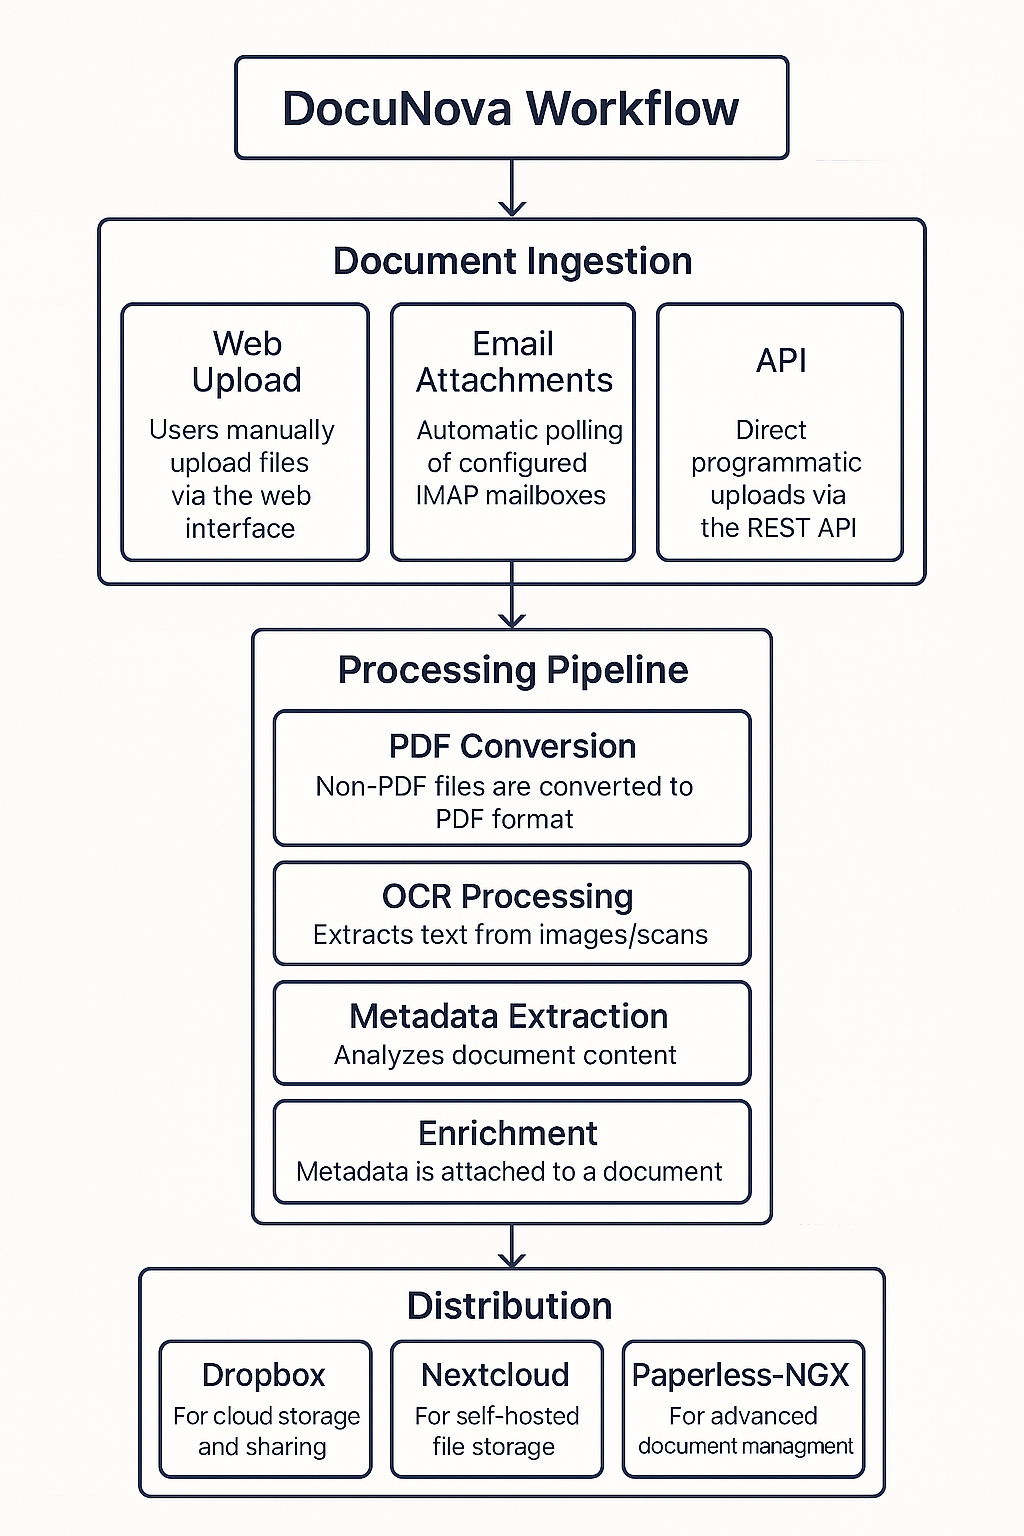
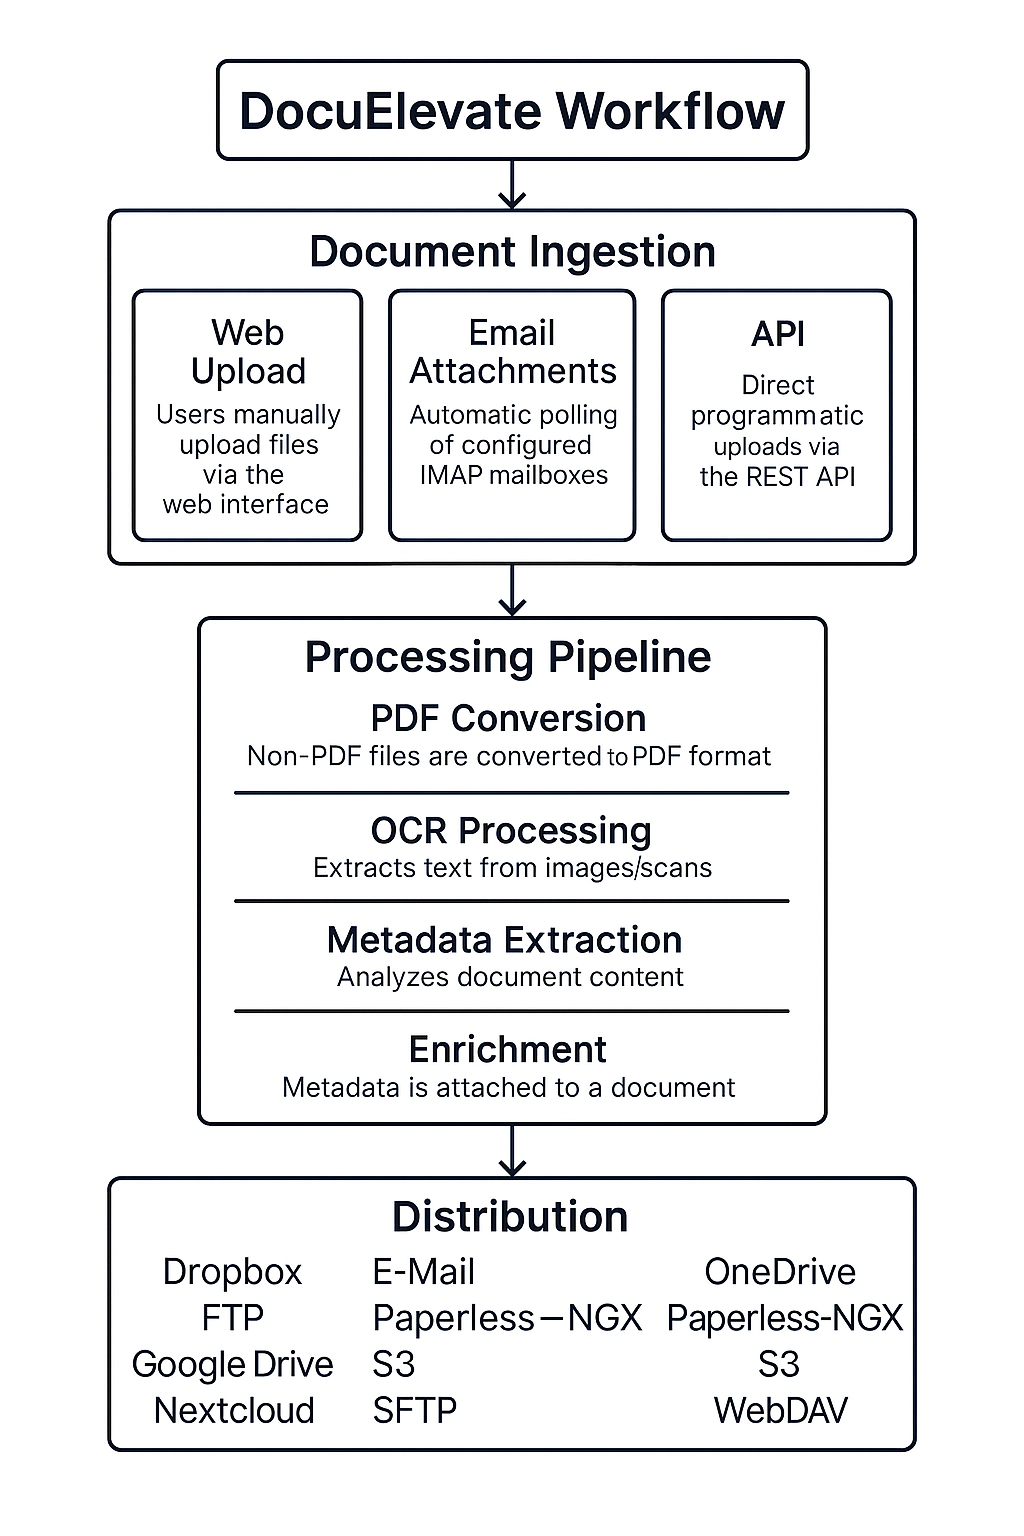
feat: rename project from DocuNova to DocuElevate, update related documentation and templates

Changed region(s): [[0.0938, 0.0312, 0.9062, 0.9688]]

diff --git a/frontend/templates/about.html b/frontend/templates/about.html
@@ -1,12 +1,12 @@
 {% extends "base.html" %}
-{% block title %}About DocuNova{% endblock %}
+{% block title %}About DocuElevate{% endblock %}
 
 {% block content %}
 <div class="container mx-auto px-4 py-8">
-  <h1 class="text-4xl font-bold mb-4">About DocuNova</h1>
+  <h1 class="text-4xl font-bold mb-4">About DocuElevate</h1>
   <p class="text-gray-700 mb-6 leading-relaxed">
-    Welcome to <strong>DocuNova</strong> – your modern, intelligent solution for document processing!
-    We’ve built DocuNova to completely transform the way you handle your documents – from upload
+    Welcome to <strong>DocuElevate</strong> – your modern, intelligent solution for document processing!
+    We've built DocuElevate to completely transform the way you handle your documents – from upload
     to extraction, from processing to storage. 
   </p>
 
@@ -14,7 +14,7 @@
   <section class="bg-white shadow rounded p-6 mb-8">
     <h2 class="text-2xl font-semibold mb-2">Our Story</h2>
     <p class="text-gray-600 mb-4">
-      DocuNova was created with one goal in mind: to simplify and streamline document management 
+      DocuElevate was created with one goal in mind: to simplify and streamline document management 
       for everyone, whether you’re a small startup or a large enterprise.
     </p>
     <p class="text-gray-600">
@@ -42,7 +42,7 @@
   <section class="bg-white shadow rounded p-6 mb-8">
     <h2 class="text-2xl font-semibold mb-2">Meet the Creator</h2>
     <p class="text-gray-600">
-      DocuNova is passionately developed by
+      DocuElevate is passionately developed by
       <a href="https://www.christianlouis.de" target="_blank" class="text-blue-600 hover:underline">Christian Krakau-Louis</a>.
     </p>
   </section>
@@ -51,12 +51,12 @@
   <section class="bg-white shadow rounded p-6">
     <h2 class="text-2xl font-semibold mb-2">Get Involved</h2>
     <p class="text-gray-600 mb-4">
-      Want to dive into the code, contribute ideas, or simply check out the magic behind DocuNova?
+      Want to dive into the code, contribute ideas, or simply check out the magic behind DocuElevate?
       Visit our GitHub repository!
     </p>
     <a href="https://github.com/christianlouis/document-processor" target="_blank" class="flex items-center space-x-2 text-blue-600 hover:text-blue-800">
       <img src="https://github.githubassets.com/images/modules/logos_page/GitHub-Mark.png" alt="GitHub Logo" class="h-6 w-6" />
-      <span>View DocuNova on GitHub</span>
+      <span>View DocuElevate on GitHub</span>
     </a>
   </section>
 </div>

diff --git a/app/templates/email/default.html b/app/templates/email/default.html
@@ -3,7 +3,7 @@
 <head>
     <meta charset="UTF-8">
     <meta name="viewport" content="width=device-width, initial-scale=1.0">
-    <title>Document from DocuNova</title>
+    <title>Document from DocuElevate</title>
     <style>
         body {
             font-family: 'Segoe UI', Tahoma, Geneva, Verdana, sans-serif;
@@ -95,7 +95,7 @@
 <body>
     <div class="header">
         {% if has_logo %}
-        <img src="cid:logo" alt="DocuNova Logo" class="logo">
+        <img src="cid:logo" alt="DocuElevate Logo" class="logo">
         {% endif %}
         <h1>Document Delivery</h1>
     </div>
@@ -105,7 +105,7 @@
             {% if custom_message %}
                 {{ custom_message }}
             {% else %}
-                A document has been shared with you from DocuNova.
+                A document has been shared with you from DocuElevate.
             {% endif %}
         </p>
         
@@ -148,14 +148,14 @@
         
         {% if app_url %}
         <p>
-            <a href="{{ app_url }}" class="button">Visit DocuNova</a>
+            <a href="{{ app_url }}" class="button">Visit DocuElevate</a>
         </p>
         {% endif %}
     </div>
     
     <div class="footer">
-        <p>This is an automated message from DocuNova Document Processing System.</p>
-        <p>© {{ now().year }} DocuNova</p>
+        <p>This is an automated message from DocuElevate Document Processing System.</p>
+        <p>© {{ now().year }} DocuElevate</p>
     </div>
 </body>
 </html>

diff --git a/frontend/templates/base.html b/frontend/templates/base.html
@@ -2,7 +2,7 @@
 <html lang="en">
   <head>
     <meta charset="UTF-8" />
-    <title>{% block title %}DocuNova{% endblock %}</title>
+    <title>{% block title %}DocuElevate{% endblock %}</title>
     <meta name="viewport" content="width=device-width, initial-scale=1.0" />
     <!-- Tailwind CSS or other global CSS references -->
     <script src="https://cdn.jsdelivr.net/npm/@tailwindcss/browser@4"></script>
@@ -35,7 +35,7 @@
             ></span>
             <!-- Text -->
             <span class="text-xl font-bold text-blue-500 hover:text-blue-700">
-              DocuNova
+              DocuElevate
             </span>
           </a>
         </div>
@@ -104,7 +104,7 @@
     <!-- Footer -->
     <footer class="bg-white shadow">
       <div class="max-w-7xl mx-auto px-4 py-4 text-center text-gray-600">
-        DocuNova 2025 - Licensed under <a href="/license" class="text-blue-500 hover:underline">Apache License 2.0</a> - 
+        DocuElevate 2025 - Licensed under <a href="/license" class="text-blue-500 hover:underline">Apache License 2.0</a> - 
         <span class="text-xs">Version {{ app_version|default(version, true) }}</span>
       </div>
     </footer>

diff --git a/frontend/templates/onedrive.html b/frontend/templates/onedrive.html
@@ -6,7 +6,7 @@
   <div class="mb-8">
     <h1 class="text-3xl font-bold mb-2">OneDrive Integration Setup</h1>
     <p class="text-gray-600 mb-4">
-      Configure the Microsoft OneDrive integration for DocuNova using our setup wizard.
+      Configure the Microsoft OneDrive integration for DocuElevate using our setup wizard.
     </p>
     
     <div class="bg-blue-100 border-l-4 border-blue-500 text-blue-700 p-4 my-4" role="alert">
@@ -48,7 +48,7 @@
         <li>Go to the <a href="https://portal.azure.com/" target="_blank" class="text-blue-600 hover:underline">Azure Portal</a></li>
         <li>Navigate to "Azure Active Directory" > "App registrations"</li>
         <li>Click "New registration"</li>
-        <li>Enter a name for your application (e.g., "DocuNova")</li>
+        <li>Enter a name for your application (e.g., "DocuElevate")</li>
         <li>For "Supported account types", select:
           <div class="bg-gray-50 p-2 my-2 rounded text-sm">
             "Accounts in any organizational directory and personal Microsoft accounts"

diff --git a/frontend/templates/dropbox.html b/frontend/templates/dropbox.html
@@ -6,7 +6,7 @@
   <div class="mb-8">
     <h1 class="text-3xl font-bold mb-2">Dropbox Integration Setup</h1>
     <p class="text-gray-600 mb-4">
-      Configure the Dropbox integration for DocuNova using our setup wizard.
+      Configure the Dropbox integration for DocuElevate using our setup wizard.
     </p>
     
     <div class="bg-blue-100 border-l-4 border-blue-500 text-blue-700 p-4 my-4" role="alert">
@@ -49,7 +49,7 @@
         <li>Click "Create app"</li>
         <li>Select "Scoped access" for API</li>
         <li>Choose "Full Dropbox" access (or "App folder" for more restricted access)</li>
-        <li>Give your app a name (e.g., "DocuNova")</li>
+        <li>Give your app a name (e.g., "DocuElevate")</li>
         <li>Click "Create app"</li>
       </ol>
     </div>

diff --git a/frontend/templates/license.html b/frontend/templates/license.html
@@ -1,6 +1,6 @@
 {% extends "base.html" %}
 
-{% block title %}DocuNova - License{% endblock %}
+{% block title %}DocuElevate - License{% endblock %}
 
 {% block content %}
 <div class="container mx-auto px-4 py-8">
@@ -14,7 +14,7 @@
         </div>
         
         <p class="mt-4 text-gray-600">
-            DocuNova is distributed under the Apache License 2.0, which is a permissive
+            DocuElevate is distributed under the Apache License 2.0, which is a permissive
             open-source software license that allows you to use, modify, distribute, and
             contribute to the project.
         </p>

diff --git a/frontend/templates/404.html b/frontend/templates/404.html
@@ -7,7 +7,7 @@
     <h1 class="text-7xl font-extrabold text-blue-600 mb-6">404</h1>
     <h2 class="text-3xl font-bold text-gray-800 mb-4">Oops, we couldn’t find that page!</h2>
     <p class="text-gray-600 mb-8">
-      It seems DocuNova has misplaced the document you were looking for. Don’t worry – we’ve got your back.
+      It seems DocuElevate has misplaced the document you were looking for. Don’t worry – we’ve got your back.
     </p>
     <a href="/" class="inline-block bg-blue-500 hover:bg-blue-600 text-white font-semibold py-3 px-6 rounded-lg transition-colors">
       &larr; Return Home

diff --git a/frontend/templates/index.html b/frontend/templates/index.html
@@ -1,9 +1,9 @@
 {% extends "base.html" %}
-{% block title %}Home - DocuNova{% endblock %}
+{% block title %}Home - DocuElevate{% endblock %}
 
 {% block content %}
 <div class="container mx-auto px-4 py-8">
-  <h1 class="text-4xl font-bold mb-4">Welcome to DocuNova</h1>
+  <h1 class="text-4xl font-bold mb-4">Welcome to DocuElevate</h1>
   <p class="text-gray-700 mb-8">
     Your intelligent solution for processing, managing, and organizing documents effortlessly.
   </p>

diff --git a/frontend/templates/500.html b/frontend/templates/500.html
@@ -1,5 +1,5 @@
 {% extends "base.html" %}
-{% block title %}Server Error - DocuNova{% endblock %}
+{% block title %}Server Error - DocuElevate{% endblock %}
 
 {% block content %}
 <div class="relative isolate px-6 pt-14 lg:px-8">

diff --git a/app/tasks/upload_to_email.py b/app/tasks/upload_to_email.py
@@ -83,7 +83,7 @@ def extract_metadata_from_file(file_path):
     return metadata
 
 def attach_logo(msg):
-    """Attach the DocuNova logo to the email with proper Content-ID."""
+    """Attach the DocuElevate logo to the email with proper Content-ID."""
     try:
         # Try to find logo in workdir first (for customization)
         custom_logo_path = os.path.join(settings.workdir, "templates", "email", "logo.png")
@@ -187,7 +187,7 @@ def upload_to_email(file_path: str, recipients=None, subject=None, message=None,
         return {"status": "Skipped", "reason": error}
 
     # Use provided subject or create default
-    subject = subject or f"DocuNova Document: {filename}"
+    subject = subject or f"DocuElevate Document: {filename}"
 
     # Extract document metadata if available
     metadata = {}
@@ -215,7 +215,7 @@ def upload_to_email(file_path: str, recipients=None, subject=None, message=None,
         context = {
             "filename": filename,
             "message": message or f"Attached is the document: {filename}",
-            "app_name": "DocuNova",
+            "app_name": "DocuElevate",
             "app_url": f"https://{settings.external_hostname}" if settings.external_hostname else None,
             "custom_message": message,
             "metadata": metadata,

diff --git a/app/tasks/upload_to_google_drive.py b/app/tasks/upload_to_google_drive.py
@@ -151,7 +151,7 @@ def upload_to_google_drive(file_path: str, include_metadata=True):
             
             # Add minimal appProperties
             file_metadata['appProperties'] = {
-                'docunova': 'true'
+                'docuelevate': 'true'
             }
             
             # Add metadata to file description for better visibility in Google Drive UI

diff --git a/app/main.py b/app/main.py
@@ -27,7 +27,7 @@ SESSION_SECRET = config(
     default="YOUR_DEFAULT_SESSION_SECRET_MUST_BE_32_CHARS_OR_MORE"
 )
 
-app = FastAPI(title="DocuNova")
+app = FastAPI(title="DocuElevate")
 
 # 1) Session Middleware (for request.session to work)
 app.add_middleware(SessionMiddleware, secret_key=SESSION_SECRET)
